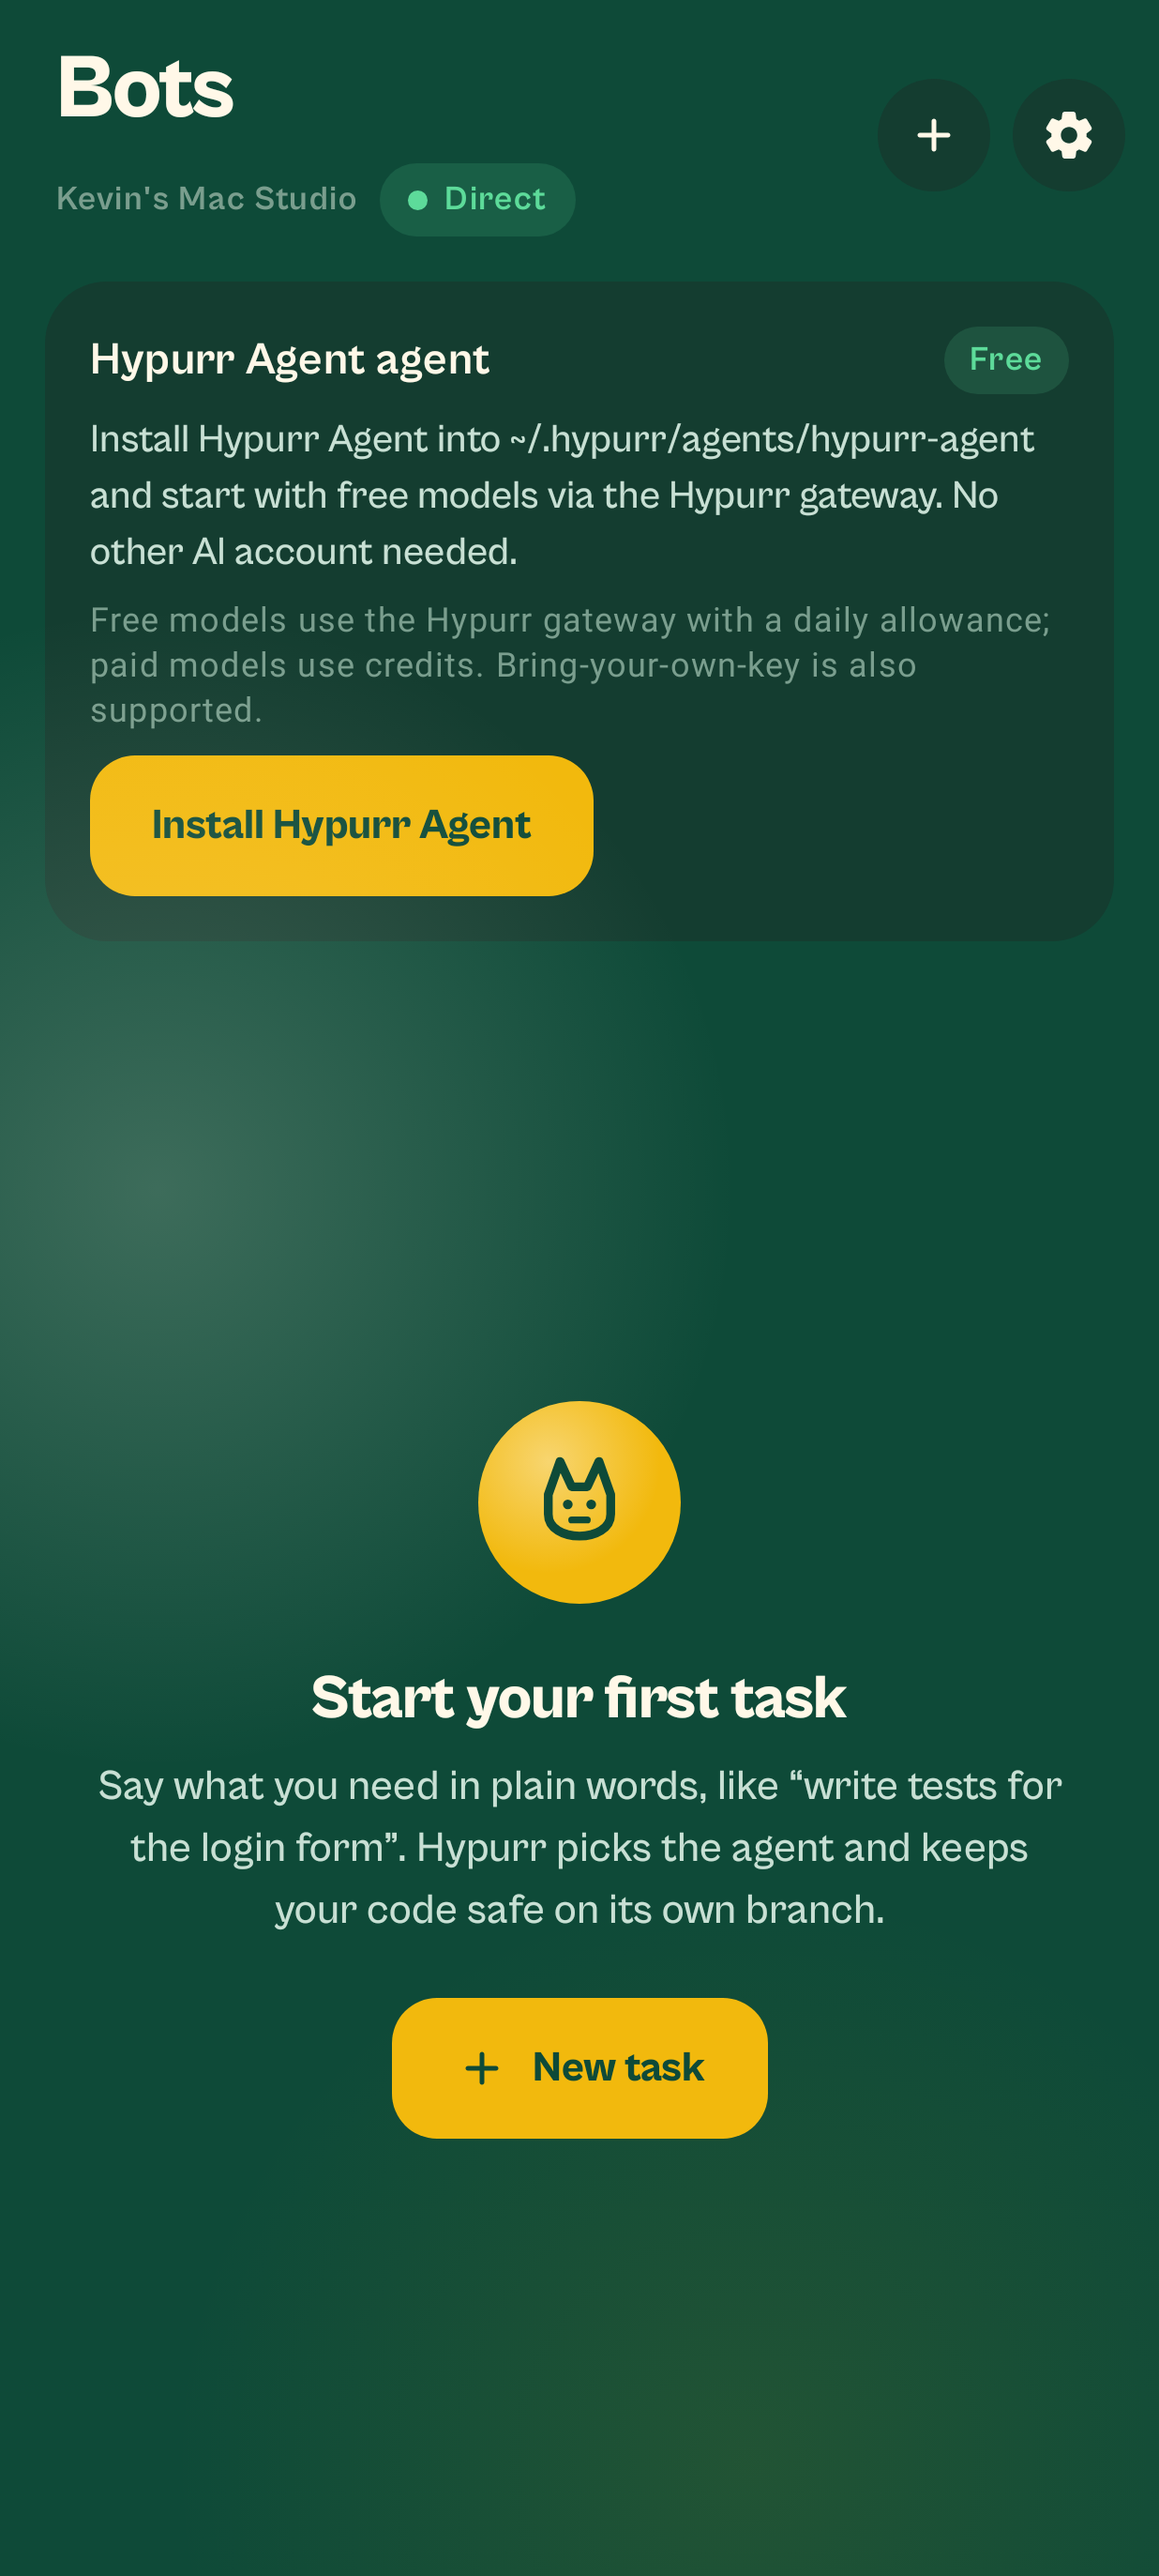
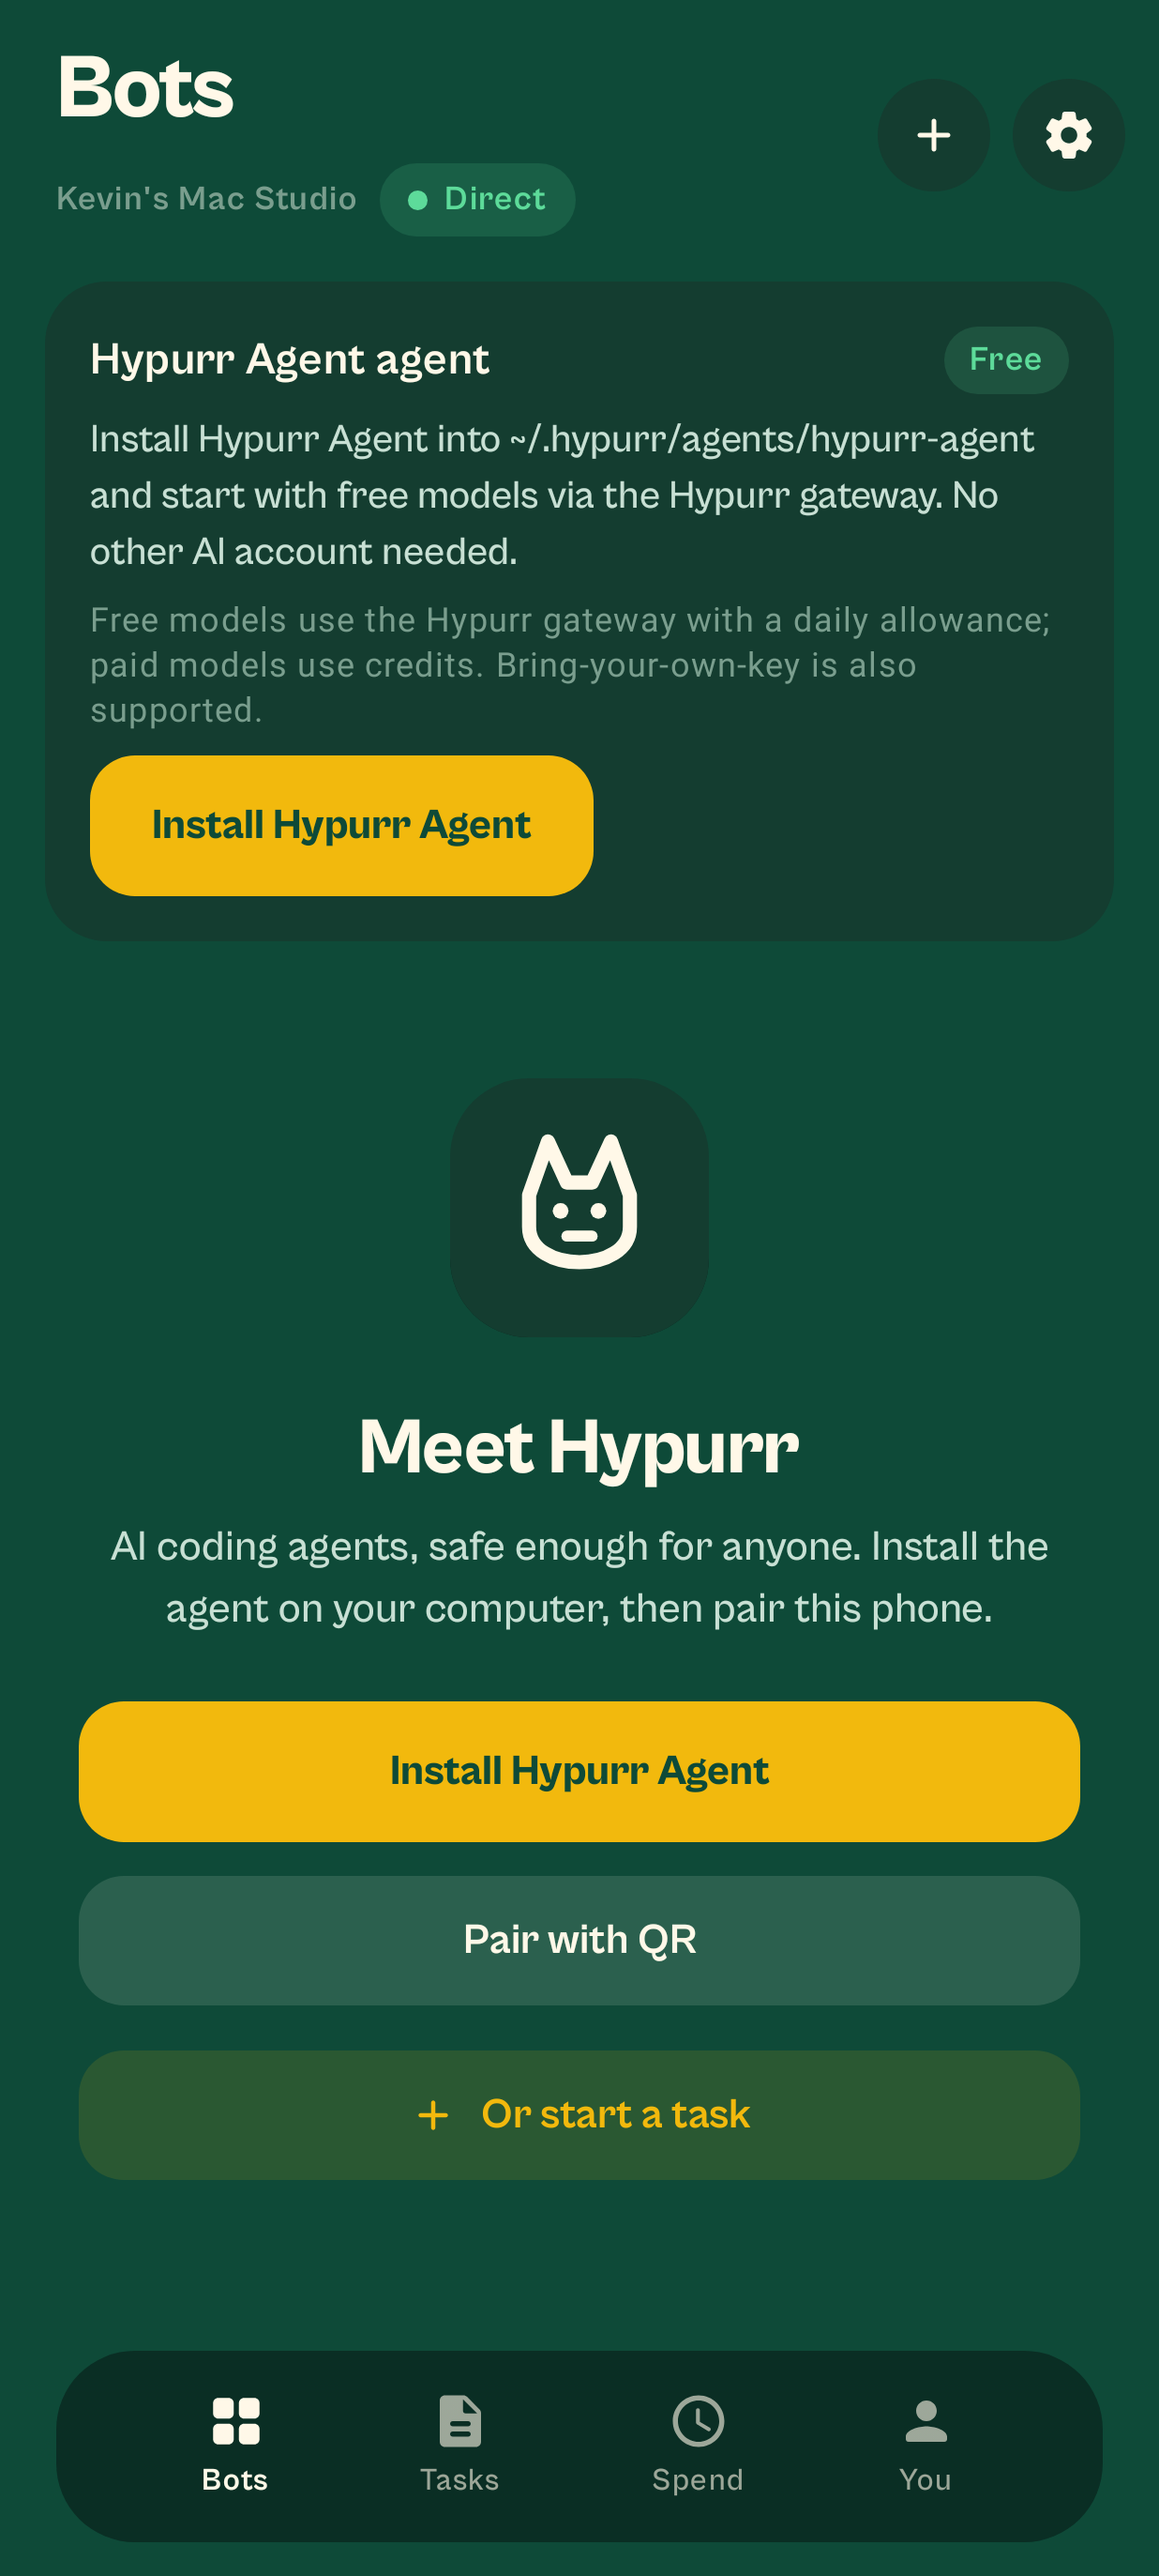
feat(sunfield): Roborazzi for Spend/Tasks/You + motion-lab retint + showreel
Record light/dark goldens for spend, tasks, you, empty (numbered steps),
pairing. Retint web motion-lab to Sunfield tokens. Ship v2 showreel from
motion-lab (60fps) plus Compose stills slideshow.

Changed region(s): [[0.0, 0.3406, 0.9531, 0.867], [0.0307, 0.898, 0.9531, 0.9909]]

diff --git a/web/public/motion-lab/index.html b/web/public/motion-lab/index.html
@@ -6,19 +6,21 @@
 <title>Hypurr motion studio</title>
 <style>
 :root {
-  --ground:#05070A; --raised:#0B1211; --agent:#0E1614; --user:#12302C;
-  --ink:#E8FFFC; --ink2:#7FA8A3; --ink3:#3D5552; --rule:#14201E;
-  --accent:#00D4C8; --on:#021412; --attn:#FFB020; --neg:#FF6B5A; --pos:#5EAD8A;
+  /* Sunfield Panel */
+  --ground:#F2B90D; --raised:#FFF8E8; --agent:#FFF8E8; --user:#15130F;
+  --ink:#15130F; --ink2:#5C5640; --ink3:#8A8168; --rule:#1F17140A;
+  --accent:#0E4A38; --on:#FFF8E8; --attn:#0E4A38; --neg:#A1281C; --pos:#0E4A38;
+  --cream:#FFF8E8; --forest:#0E4A38; --sunflower:#F2B90D;
   --ease: cubic-bezier(0.2, 0, 0, 1);
 }
 * { box-sizing:border-box; margin:0; padding:0; }
-html, body { background:#000; color:var(--ink); font:15px/1.4 ui-sans-serif, system-ui, sans-serif; overflow:hidden; }
+html, body { background:#1a1408; color:var(--ink); font:15px/1.4 ui-sans-serif, system-ui, sans-serif; overflow:hidden; }
 body { display:grid; place-items:center; min-height:100vh; }
 /* Phone frame */
 .phone {
   width:390px; height:844px; background:var(--ground); border-radius:44px;
-  border:3px solid #1a2220; position:relative; overflow:hidden;
-  box-shadow: 0 0 0 1px #0a0e0d, 0 40px 80px rgba(0,0,0,.65);
+  border:3px solid #15130F; position:relative; overflow:hidden;
+  box-shadow: 0 0 0 1px #15130F, 0 40px 80px rgba(0,0,0,.35);
 }
 .notch {
   position:absolute; top:10px; left:50%; transform:translateX(-50%);
@@ -32,14 +34,14 @@ body { display:grid; place-items:center; min-height:100vh; }
 .scene { position:absolute; inset:0; opacity:0; pointer-events:none; }
 .scene.on { opacity:1; pointer-events:auto; }
 .nav {
-  position:absolute; left:0; right:0; bottom:0; height:72px;
-  background:color-mix(in srgb, var(--raised) 88%, transparent);
-  border-top:1px solid var(--rule); display:flex; align-items:center; justify-content:space-around;
-  padding-bottom:12px;
+  position:absolute; left:16px; right:16px; bottom:14px; height:64px;
+  background:#15130F; border-radius:28px; border:none;
+  display:flex; align-items:center; justify-content:space-around;
+  padding-bottom:4px;
 }
-.nav span { font:11px/1 ui-sans-serif; color:var(--ink3); }
-.nav span.on { color:var(--accent); }
-.title { font:800 28px/1.1 ui-sans-serif; letter-spacing:-0.03em; padding:8px 20px 4px; }
+.nav span { font:11px/1 Cabinet Grotesk, ui-sans-serif; color:#99FFF8E8; }
+.nav span.on { color:#FFF8E8; }
+.title { font:800 28px/1.1 Cabinet Grotesk, ui-sans-serif; letter-spacing:-0.03em; padding:8px 20px 4px; }
 .sub { padding:0 20px 12px; color:var(--ink2); font-size:13px; display:flex; gap:8px; align-items:center; }
 .pill {
   display:inline-flex; align-items:center; gap:6px; padding:3px 8px; border-radius:999px;
@@ -52,7 +54,7 @@ body { display:grid; place-items:center; min-height:100vh; }
 }
 .row.raised { background:var(--raised); }
 .avatar {
-  width:44px; height:44px; border-radius:50%; background:var(--accent); color:var(--on);
+  width:44px; height:44px; border-radius:30%; background:#15130F; color:var(--on);
   display:grid; place-items:center; font:700 18px/1 ui-sans-serif; position:relative; flex:none;
 }
 .avatar .badge {
@@ -71,7 +73,7 @@ body { display:grid; place-items:center; min-height:100vh; }
 }
 .section { font:600 12px/1 ui-sans-serif; color:var(--attn); letter-spacing:0.02em; padding:14px 20px 6px; }
 .section.muted { color:var(--ink3); }
-/* Scan line with flat falloff trail (no glow) */
+/* Sunfield ink-dot hop (scan line retired) */
 .scan-wrap { margin-top:6px; }
 .scan-rule { height:3px; background:var(--rule); position:relative; overflow:hidden; border-radius:1px; }
 .scan-band {
@@ -133,7 +135,7 @@ body { display:grid; place-items:center; min-height:100vh; }
 }
 .composer input { flex:1; background:transparent; border:0; color:var(--ink2); font:14px/1 ui-sans-serif; outline:none; }
 .send {
-  width:34px; height:34px; border-radius:50%; background:var(--accent); color:var(--on);
+  width:34px; height:34px; border-radius:30%; background:#15130F; color:var(--on);
   display:grid; place-items:center; font-size:16px;
 }
 /* Tool */
@@ -223,7 +225,7 @@ body.desktop .desk { display:block; }
         <span class="unread">2</span>
       </div>
       <div class="skel" id="skel" style="display:none"><canvas class="skel-rain" id="skel-rain" width="400" height="120"></canvas></div>
-      <div class="nav"><span class="on">Bots</span><span>Activity</span><span>Settings</span></div>
+      <div class="nav"><span class="on">Bots</span><span>Tasks</span><span>Spend</span><span>You</span></div>
     </div>
 
     <!-- Chat / stream / tool / strike / deny -->
@@ -264,7 +266,7 @@ body.desktop .desk { display:block; }
         <div class="chip-settle" id="checkpoint">Checkpoint · safe to undo</div>
       </div>
       <div class="composer"><input value="Message" readonly/><div class="send">↑</div></div>
-      <div class="nav"><span class="on">Bots</span><span>Activity</span><span>Settings</span></div>
+      <div class="nav"><span class="on">Bots</span><span>Tasks</span><span>Spend</span><span>You</span></div>
     </div>
 
     <!-- Assemble -->
@@ -311,8 +313,8 @@ body.desktop .desk { display:block; }
   <div class="rail">
     <div style="font:800 18px/1 ui-sans-serif;margin-bottom:24px;color:var(--ink)">Hypurr</div>
     <div style="color:var(--accent);margin:8px 0;font:600 14px/1 ui-sans-serif">Bots</div>
-    <div style="color:var(--ink3);margin:8px 0;font:14px/1 ui-sans-serif">Activity</div>
-    <div style="color:var(--ink3);margin:8px 0;font:14px/1 ui-sans-serif">Settings</div>
+    <div style="color:var(--ink3);margin:8px 0;font:14px/1 ui-sans-serif">Tasks</div>
+    <div style="color:var(--ink3);margin:8px 0;font:14px/1 ui-sans-serif">You</div>
     <div style="margin-top:40px;font-size:12px;color:var(--ink2)">Kevin's Mac Studio</div>
     <div class="pill" style="margin-top:8px"><span class="dot"></span>Direct</div>
   </div>
@@ -608,7 +610,7 @@ function setStrike(p) {
     plate.style.transform = '';
     body.style.display = '';
   } else if (p < 0.38) {
-    // cyan band flash held ~600ms of the clip
+    // forest press flash held ~600ms of the clip
     allow.style.transform = 'scale(0.96)';
     band.style.transform = 'scaleX(1)';
     plate.style.display = 'block';

diff --git a/apps/android/app/src/main/java/com/ragul84/hypurr/ui/screens/BotListScreen.kt b/apps/android/app/src/main/java/com/ragul84/hypurr/ui/screens/BotListScreen.kt
@@ -347,14 +347,32 @@ private fun EmptyRoster(onNewTask: () -> Unit, onPair: () -> Unit = {}, onInstal
         Text("Meet Hypurr", style = MaterialTheme.typography.headlineMedium, color = c.text, fontWeight = FontWeight.ExtraBold)
         Spacer(Modifier.height(8.dp))
         Text(
-            "AI coding agents, safe enough for anyone. Install the agent on your computer, then pair this phone.",
+            "AI coding agents, safe enough for anyone.",
             color = c.secondary, textAlign = TextAlign.Center, style = MaterialTheme.typography.bodyLarge,
         )
-        Spacer(Modifier.height(24.dp))
+        Spacer(Modifier.height(18.dp))
+        CreamPlate(Modifier.fillMaxWidth()) {
+            Column(Modifier.padding(16.dp), verticalArrangement = Arrangement.spacedBy(12.dp)) {
+                listOf(
+                    "Install Hypurr Agent on your computer",
+                    "Scan the QR, or paste the pairing link",
+                    "Run your first task",
+                ).forEachIndexed { i, line ->
+                    Row(verticalAlignment = Alignment.CenterVertically) {
+                        Box(Modifier.size(26.dp).clip(CircleShape).background(c.accent), contentAlignment = Alignment.Center) {
+                            Text("${i + 1}", color = c.onAccent, fontWeight = FontWeight.ExtraBold, fontSize = 12.sp)
+                        }
+                        Spacer(Modifier.width(10.dp))
+                        Text(line, color = c.text, style = MaterialTheme.typography.bodyMedium)
+                    }
+                }
+            }
+        }
+        Spacer(Modifier.height(18.dp))
         FlowButton("Install Hypurr Agent", Modifier.fillMaxWidth(), onClick = onInstall)
-        Spacer(Modifier.height(12.dp))
+        Spacer(Modifier.height(10.dp))
         SoftButton("Pair with QR", Modifier.fillMaxWidth(), tint = c.text, onClick = onPair)
-        Spacer(Modifier.height(16.dp))
+        Spacer(Modifier.height(10.dp))
         SoftButton("Or start a task", Modifier.fillMaxWidth(), tint = c.accent, icon = Icons.Rounded.Add, onClick = onNewTask)
     }
 }

diff --git a/apps/android/app/src/test/java/com/ragul84/hypurr/ui/ScreenshotTest.kt b/apps/android/app/src/test/java/com/ragul84/hypurr/ui/ScreenshotTest.kt
@@ -7,6 +7,9 @@ import com.ragul84.hypurr.data.ThemeMode
 import com.ragul84.hypurr.net.LinkState
 import com.ragul84.hypurr.net.Route
 import com.ragul84.hypurr.ui.screens.BotListScreen
+import com.ragul84.hypurr.ui.screens.HomeTab
+import com.ragul84.hypurr.ui.screens.TasksScreen
+import com.ragul84.hypurr.ui.screens.SpendScreen
 import com.ragul84.hypurr.ui.screens.NeedsYouAsk
 import com.ragul84.hypurr.ui.screens.ChatScreen
 import com.ragul84.hypurr.ui.screens.NewTaskScreen
@@ -76,6 +79,26 @@ class ScreenshotTest {
                 ),
             ),
         )
+    }
+
+    @Test
+    fun spend() = shoot("spend") {
+        SpendScreen(Samples.computer.name, LinkState.Ready(Route.Direct), Samples.costs,
+            bots = Samples.bots.associateBy { it.id })
+    }
+
+    @Test
+    fun tasks() = shoot("tasks") {
+        TasksScreen(Samples.computer.name, LinkState.Ready(Route.Direct), Samples.templates,
+            recent = rosterOrder(Samples.botsWithTask), now = Samples.NOW)
+    }
+
+    @Test
+    fun you() = shoot("you") {
+        SettingsScreen(SettingsUiState(Samples.computer, LinkState.Ready(Route.Relay), ThemeMode.System, dynamicColor = false,
+            notifications = true, pushAvailable = false, version = "2.4.0", dynamicSupported = true,
+            safety = Samples.safety, customTemplates = Samples.templates.filter { !it.builtin }, costs = Samples.costs),
+            {}, {}, {}, {}, {}, showHomeTabs = true)
     }
 
     @Test

diff --git a/web/app/globals.css b/web/app/globals.css
@@ -134,7 +134,7 @@ body {
 }
 @keyframes flow { to { background-position: 300% 0; } }
 
-/* Thin teal ring (no rainbow conic). */
+/* Thin forest ring. */
 .flow-ring { position: relative; isolation: isolate; }
 .flow-ring::before {
   content: ""; position: absolute; inset: -1.5px; border-radius: inherit; z-index: -1;
@@ -144,7 +144,7 @@ body {
 @property --angle { syntax: "<angle>"; inherits: false; initial-value: 0deg; }
 @keyframes flow-spin { to { --angle: 360deg; } }
 
-/* Subtle rain / asphalt field — no purple aurora blobs. */
+/* Subtle sunflower field texture. */
 .aurora { position: fixed; inset: 0; z-index: -10; overflow: hidden; pointer-events: none;
   background:
     repeating-linear-gradient(

diff --git a/web/app/components/motion.ts b/web/app/components/motion.ts
@@ -4,7 +4,7 @@ export const springBouncy = { type: "spring", stiffness: 380, damping: 18, mass:
 export const springGentle = { type: "spring", stiffness: 120, damping: 20 } as const;
 export const easeEmphasized = [0.2, 0, 0, 1] as const;
 
-/** Wet-asphalt neon timing tokens (ms). */
+/** Sunfield motion timing tokens (ms). */
 export const HypurrMotion = {
   strike: 120,
   snap: 180,

diff --git a/web/app/motion-lab/page.tsx b/web/app/motion-lab/page.tsx
@@ -2,7 +2,7 @@ import type { Metadata } from "next";
 
 export const metadata: Metadata = {
   title: "Hypurr motion lab",
-  description: "Wet-asphalt neon micro-animation catalogue",
+  description: "Sunfield Panel motion catalogue",
 };
 
 export default function MotionLabPage() {
